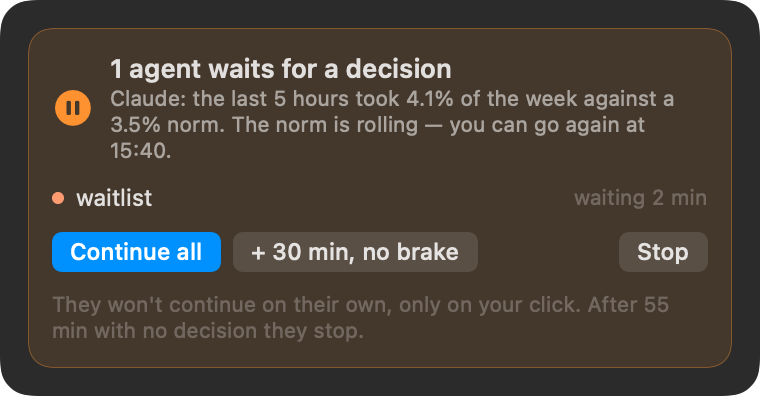
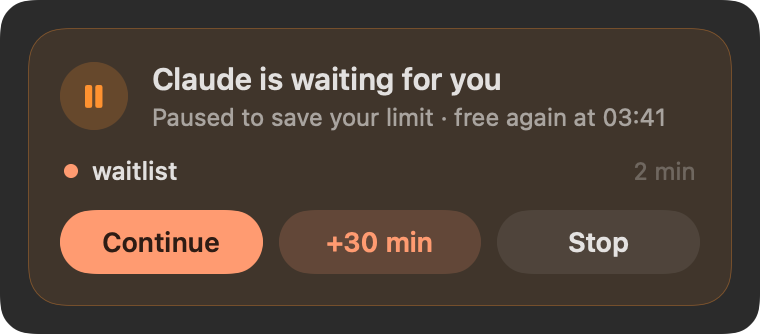
Simpler card for agents waiting on a decision
One line says who is waiting and why ("Paused to save your limit · free
again at 15:40"), sessions follow as quiet rows, and the three actions are
capsule buttons in the panel's own style: Continue in the provider's colour,
+30 min like the + button, Stop neutral. The long reason moves to a tooltip
and the footer note is gone. The landing shows the new card.

diff --git a/Sources/SlowburnApp/HoldsUI.swift b/Sources/SlowburnApp/HoldsUI.swift
@@ -92,75 +92,79 @@ final class HoldsModel: ObservableObject {
 struct HoldQueueCard: View {
     @ObservedObject var holds: HoldsModel
     @ObservedObject var model: Model
-    /// Rendering for a snapshot or a clip, where AppKit controls can't be drawn.
+    /// Rendering for a snapshot or a clip. The card draws its own buttons, so nothing changes; kept for callers.
     var snapshot = false
 
-    private func fakeButton(_ title: String, prominent: Bool = false) -> some View {
-        Text(title)
-            .font(.system(size: 11.5, weight: .medium))
-            .foregroundStyle(prominent ? Color.white : Color.primary)
-            .padding(.horizontal, 9).padding(.vertical, 3)
-            .background(RoundedRectangle(cornerRadius: 5, style: .continuous)
-                .fill(prominent ? Color.accentColor : Color.primary.opacity(0.14)))
-    }
+    private static let pillHeight: CGFloat = 32
 
     var body: some View {
         let count = holds.sessionsWaiting
-        VStack(alignment: .leading, spacing: 10) {
-            HStack(spacing: 8) {
-                Image(systemName: "pause.circle.fill").font(.system(size: 18)).foregroundStyle(.orange)
-                VStack(alignment: .leading, spacing: 1) {
-                    Text(L("\(count) \(agentsWord(count)) решения", "\(count) \(agentsWord(count)) for a decision"))
-                        .font(.system(size: 13, weight: .semibold))
-                    if let reason = holds.pending.first?.reason {
-                        Text(reason).font(.system(size: 10.5)).foregroundStyle(.secondary)
-                            .fixedSize(horizontal: false, vertical: true)
-                    }
+        let first = holds.pending.first
+        let provider = first?.provider ?? .claude
+        let tint = provider.tint
+        // When the 5-hour window frees up again, from the same numbers the bars show.
+        let freeAt = model.presentation?.limits.first { $0.provider == provider && $0.fiveHourBudget != nil }?.fiveHourFreesAt
+        let who = count == 1 ? Phrases.providerName(provider) : "\(count)"
+        return VStack(alignment: .leading, spacing: 12) {
+            HStack(alignment: .center, spacing: 12) {
+                ZStack {
+                    Circle().fill(Color.orange.opacity(0.2))
+                    Image(systemName: "pause.fill").font(.system(size: 13, weight: .bold)).foregroundStyle(.orange)
                 }
+                .frame(width: 34, height: 34)
+                VStack(alignment: .leading, spacing: 2) {
+                    Text(count == 1 ? L("\(who) ждёт тебя", "\(who) is waiting for you")
+                                    : L("\(who) \(agentsWord(count)) тебя", "\(who) agents are waiting for you"))
+                        .font(.system(size: 15, weight: .semibold))
+                    Text(freeAt.map { L("Пауза, чтобы сберечь лимит · свободно в \(Phrases.time($0))",
+                                        "Paused to save your limit · free again at \(Phrases.time($0))") }
+                         ?? L("Пауза, чтобы сберечь лимит", "Paused to save your limit"))
+                        .font(.system(size: 12)).foregroundStyle(.secondary)
+                        .lineLimit(1).minimumScaleFactor(0.85)
+                }
+                Spacer(minLength: 0)
             }
+            .help(first?.reason ?? "")
+            // Which sessions wait, and for how long — one quiet line each.
             VStack(spacing: 4) {
                 ForEach(holds.byProject, id: \.project) { g in
-                    HStack(spacing: 6) {
-                        Circle().fill(g.provider.tint).frame(width: 6, height: 6)
-                        Text(g.project).font(.system(size: 11.5))
-                        if g.count > 1 { Text("×\(g.count)").font(.system(size: 11)).foregroundStyle(.secondary) }
+                    HStack(spacing: 7) {
+                        Circle().fill(g.provider.tint).frame(width: 7, height: 7)
+                        Text(g.project).font(.system(size: 12.5, weight: .medium))
+                        if g.count > 1 { Text("×\(g.count)").font(.system(size: 12)).foregroundStyle(.secondary) }
                         Spacer()
-                        Text(L("ждёт \(Phrases.duration(Date().timeIntervalSince(g.since)))", "waiting \(Phrases.duration(Date().timeIntervalSince(g.since)))"))
-                            .font(.system(size: 10.5)).foregroundStyle(.tertiary).monospacedDigit()
+                        Text(Phrases.duration(Date().timeIntervalSince(g.since)))
+                            .font(.system(size: 12)).foregroundStyle(.tertiary).monospacedDigit()
                     }
                 }
             }
-            if snapshot {
-                // Snapshots can't draw AppKit buttons: drawn stand-ins in the same places.
-                HStack(spacing: 6) {
-                    fakeButton(L("Продолжить всех", "Continue all"), prominent: true)
-                    fakeButton(L("+ 30 мин без тормоза", "+ 30 min, no brake"))
-                    Spacer(minLength: 0)
-                    fakeButton(L("Стоп", "Stop"))
-                }
-            } else {
-                HStack(spacing: 6) {
-                    Button(L("Продолжить всех", "Continue all")) { holds.releaseAll() }
-                        .buttonStyle(.borderedProminent)
-                        .controlSize(.small)
-                    Button(L("+ 30 мин без тормоза", "+ 30 min, no brake")) { holds.releaseAndPause(model: model) }
-                        .controlSize(.small)
-                    Spacer(minLength: 0)
-                    Button(L("Стоп", "Stop")) { holds.stopAll() }
-                        .controlSize(.small)
-                        .help(L("Агенты аккуратно завершат ход и опишут, где остановились", "Agents wrap up their turn cleanly and describe where they stopped"))
-                }
+            .padding(.horizontal, 2)
+            HStack(spacing: 8) {
+                pill(L("Продолжить", "Continue"), fill: tint, text: Color.black.opacity(0.82)) { holds.releaseAll() }
+                    .help(L("Агенты продолжат работу", "Agents go on with their work"))
+                pill(L("+30 мин", "+30 min"), fill: tint.opacity(0.18), text: tint) { holds.releaseAndPause(model: model) }
+                    .help(L("Продолжить и снять тормоз на 30 минут", "Continue and take the brake off for 30 minutes"))
+                pill(L("Стоп", "Stop"), fill: Color.primary.opacity(0.09), text: .primary) { holds.stopAll() }
+                    .help(L("Агенты аккуратно завершат ход и опишут, где остановились", "Agents wrap up their turn cleanly and describe where they stopped"))
             }
-            Text(holds.settings.releaseMode == .manual
-                 ? L("Сами не продолжат: только по твоей кнопке. Через \(Int(holds.settings.maxWait / 60)) мин без решения — остановятся.",
-                     "They won't continue on their own, only on your click. After \(Int(holds.settings.maxWait / 60)) min with no decision they stop.")
-                 : L("Продолжат сами, когда вернётся бюджет, или по твоей кнопке.",
-                     "They continue on their own when the budget returns, or on your click."))
-                .font(.system(size: 10.5)).foregroundStyle(.tertiary)
         }
-        .padding(12)
-        .background(RoundedRectangle(cornerRadius: 12, style: .continuous).fill(Color.orange.opacity(0.12)))
-        .overlay(RoundedRectangle(cornerRadius: 12, style: .continuous).strokeBorder(Color.orange.opacity(0.35), lineWidth: 0.5))
+        .padding(16)
+        .background(RoundedRectangle(cornerRadius: 18, style: .continuous).fill(Color.orange.opacity(0.10)))
+        .overlay(RoundedRectangle(cornerRadius: 18, style: .continuous).strokeBorder(Color.orange.opacity(0.28), lineWidth: 0.5))
+    }
+
+    /// A capsule button in the panel's own style: the same height and shape as the bars.
+    private func pill(_ title: String, fill: Color, text: Color, action: @escaping () -> Void) -> some View {
+        Button(action: action) {
+            Text(title)
+                .font(.system(size: 13.5, weight: .semibold))
+                .foregroundStyle(text)
+                .frame(maxWidth: .infinity)
+                .frame(height: Self.pillHeight)
+                .background(Capsule().fill(fill))
+                .contentShape(Capsule())
+        }
+        .buttonStyle(.plain)
     }
 
     /// "1 агент ждёт", "3 агента ждут", "7 агентов ждут", "21 агент ждёт".

diff --git a/docs/index.html b/docs/index.html
@@ -195,7 +195,7 @@ footer .wrap{display:flex;justify-content:space-between;gap:20px;flex-wrap:wrap}
       <li><span class="dot" style="background:var(--orange)"></span><span><b>Start a message with ++</b> to skip the brake once.</span></li>
     </ul>
   </div>
-  <div class="shot reveal"><img src="assets/ui/hold.png" alt="A card saying one agent waits for a decision, with Continue all, + 30 min no brake, and Stop"></div>
+  <div class="shot reveal"><img src="assets/ui/hold.png" alt="A card saying Claude is waiting for you, paused to save the limit, with Continue, +30 min and Stop buttons"></div>
 </div></section>
 
 <section><div class="wrap row">
